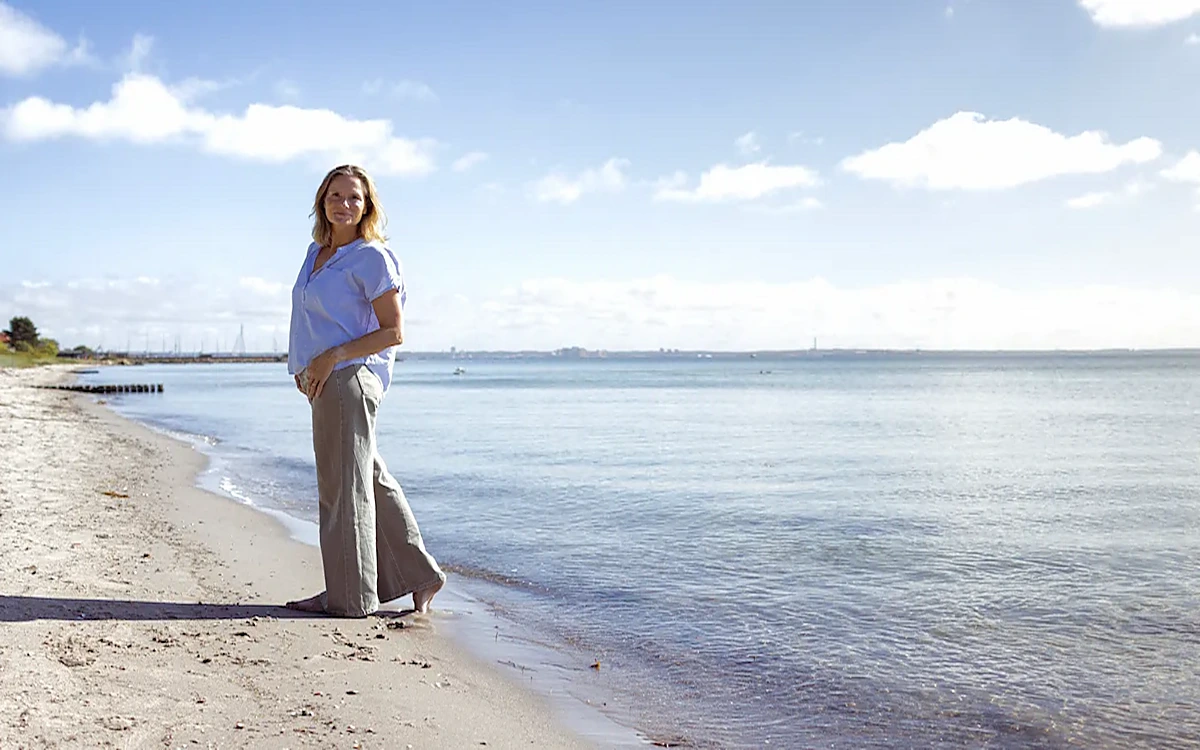
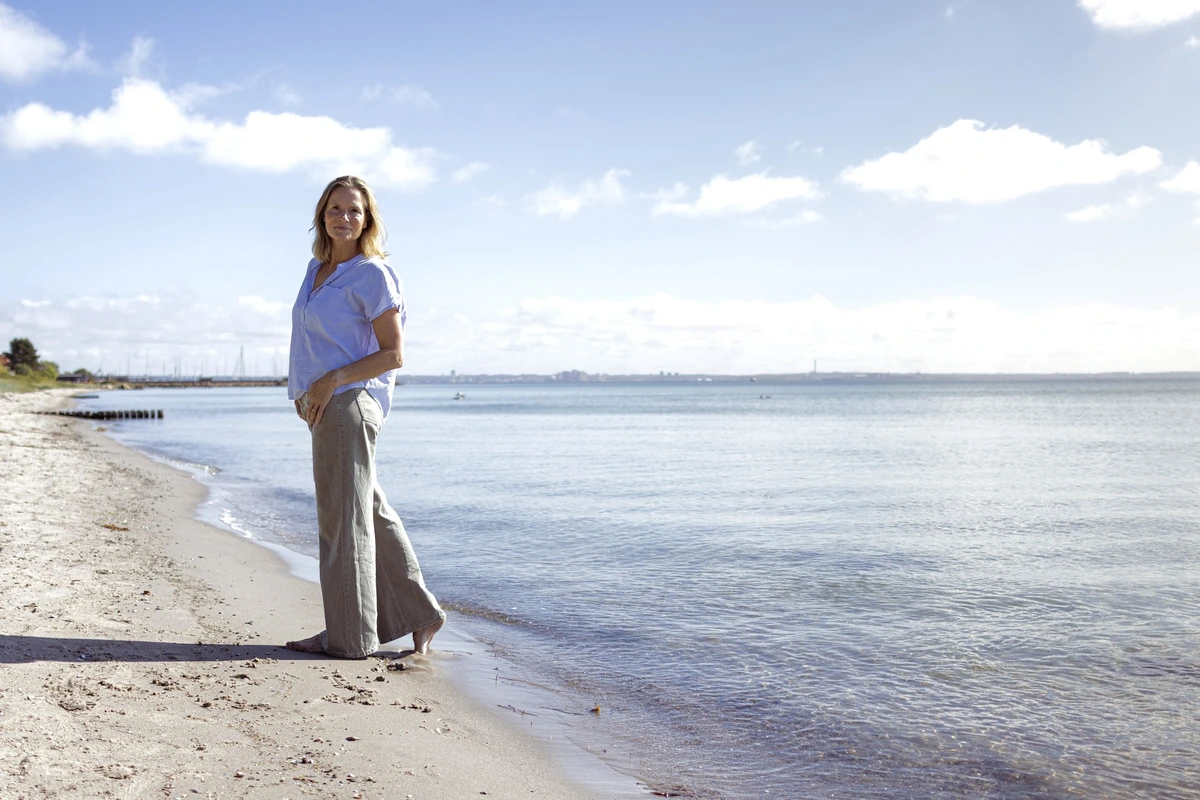
Skift hero til et rigtigt skarpt strandbillede fra fotoshootet

diff --git a/index.html b/index.html
@@ -73,7 +73,7 @@
         <!-- srcset = browseren vælger selv den mindste fil, der er skarp nok til skærmen -->
         <img src="images/billeder/mette-paa-stranden-2400.webp"
           srcset="images/billeder/mette-paa-stranden-1200.webp 1200w, images/billeder/mette-paa-stranden-2400.webp 2400w"
-          sizes="100vw" width="2400" height="1500" alt="Mette Thaisen på stranden, i ro med havet i baggrunden">
+          sizes="100vw" width="2400" height="1600" alt="Mette Thaisen på stranden, i ro med havet i baggrunden">
       </figure>
       <div class="hero-tekst">
         <p class="kicker">Manuvision-behandling & kropsterapi</p>
@@ -205,25 +205,26 @@
       </div>
     </section>
 
-    <!-- ====== BALANCE – lille "hint"-sektion, kort og billede ====== -->
-    <section class="balance-teaser">
-      <img src="images/billeder/mette-glad-i-vandkanten.jpg" alt="Mette Thaisen glad og i bevægelse ved vandkanten">
-      <div class="balance-teaser-tekst">
-        <p class="kicker">Mærk efter</p>
-        <h2>Har du mistet <span class="ord-fremhaevet">balancen</span>?</h2>
-        <p>Jeg hjælper dig med at finde tilbage til ro, overskud og kontakt til dig selv – i kroppen og i livet.</p>
-        <a href="#et-forloeb-hos-mig" class="tekst-link tekst-link-op">Se hvordan et forløb hos mig ser ud</a>
+    <section class="box8">
+      <!-- ====== BALANCE – lille "hint"-sektion, kort og billede ====== -->
+      <section class="balance-teaser">
+        <img src="images/billeder/mette-glad-i-vandkanten.jpg" alt="Mette Thaisen glad og i bevægelse ved vandkanten">
+        <div class="balance-teaser-tekst">
+          <p class="kicker">Mærk efter</p>
+          <h2>Har du mistet <span class="ord-fremhaevet">balancen</span>?</h2>
+          <p>Jeg hjælper dig med at finde tilbage til ro, overskud og kontakt til dig selv – i kroppen og i livet.</p>
+          <a href="#et-forloeb-hos-mig" class="tekst-link tekst-link-op">Se hvordan et forløb hos mig ser ud</a>
+        </div>
+      </section>
+
+      <!-- ====== BOOK-BÅND: ligger lige over galleriet ====== -->
+      <div class="book-band">
+        <h2>Klar til at starte dit forløb?</h2>
+        <p>Book din første tid, så finder vi sammen ud af, hvad din krop har brug for.</p>
+        <a href="https://system.easypractice.net/book/mette-thaisen-kropsterapi#choose-where" target="_blank"
+          rel="noopener" class="knap">Book din tid her</a>
       </div>
     </section>
-
-    <!-- ====== BOOK-BÅND: ligger lige over galleriet ====== -->
-    <div class="book-band">
-      <h2>Klar til at starte dit forløb?</h2>
-      <p>Book din første tid, så finder vi sammen ud af, hvad din krop har brug for.</p>
-      <a href="https://system.easypractice.net/book/mette-thaisen-kropsterapi#choose-where" target="_blank"
-        rel="noopener" class="knap">Book din tid her</a>
-    </div>
-
     <!-- ====== GALLERI ====== -->
     <section class="galleri">
 
